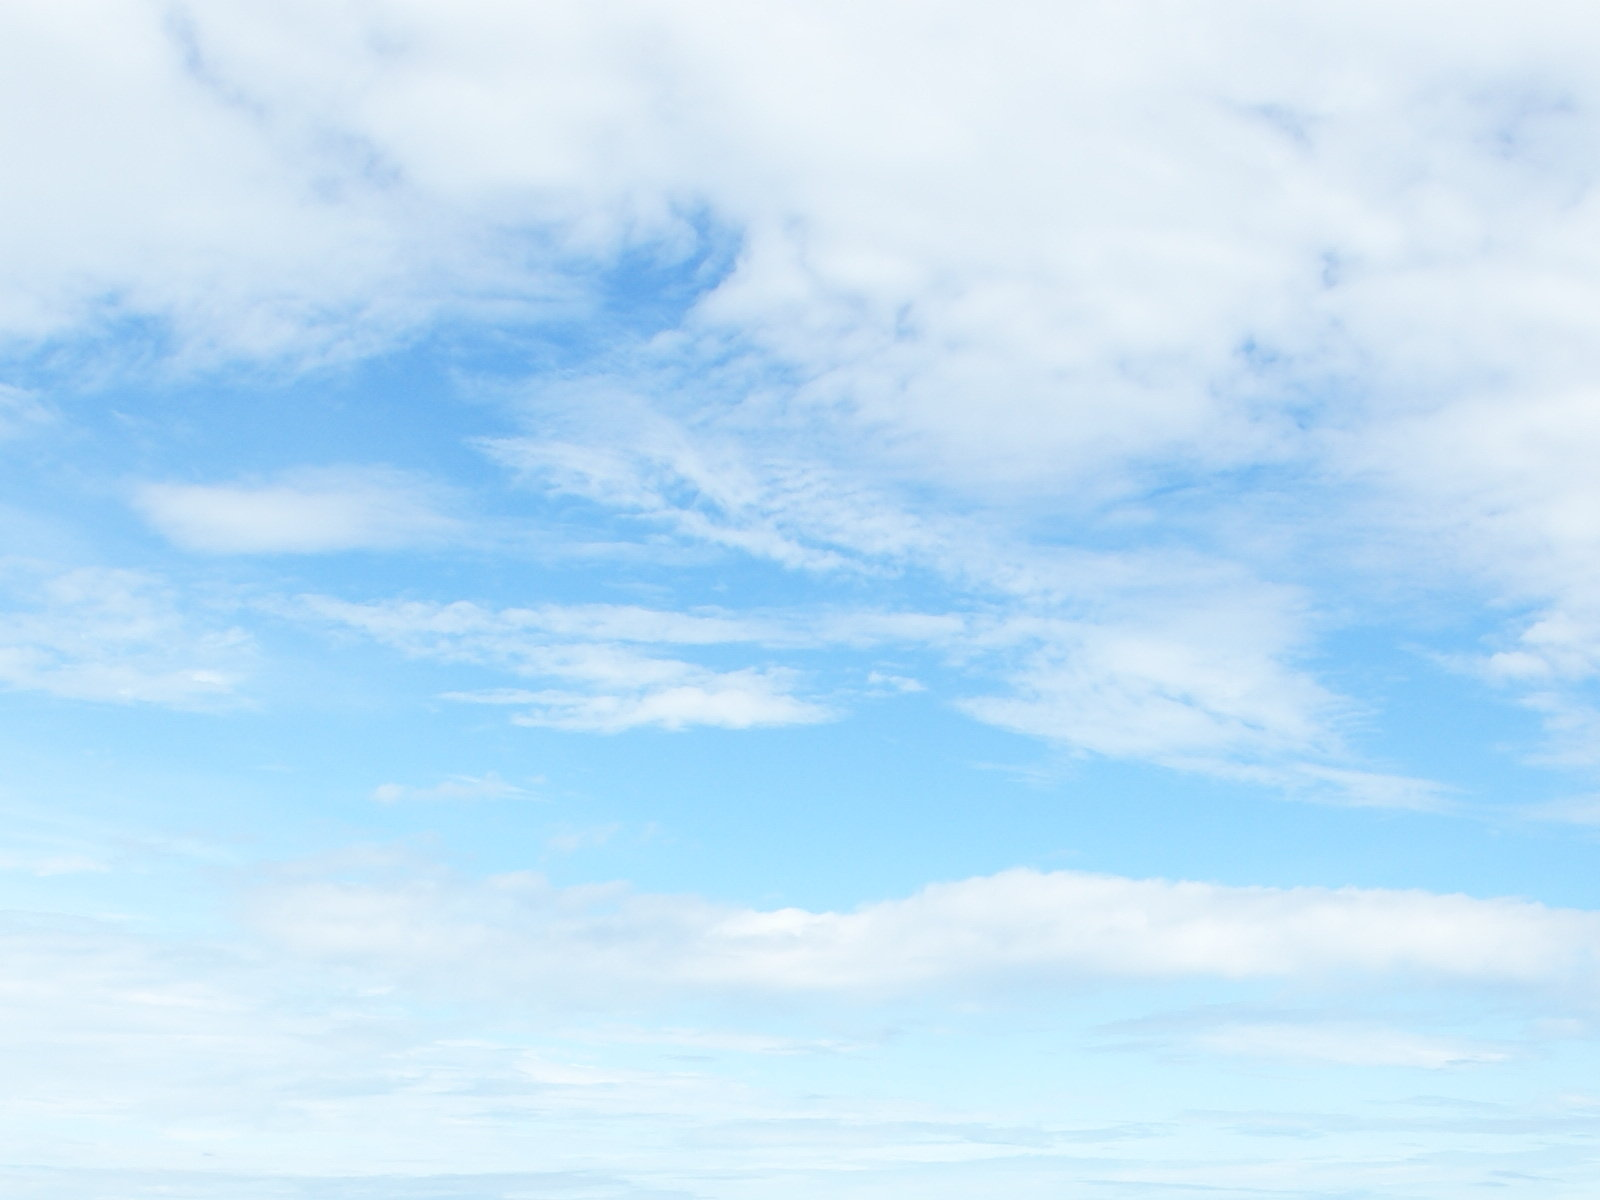
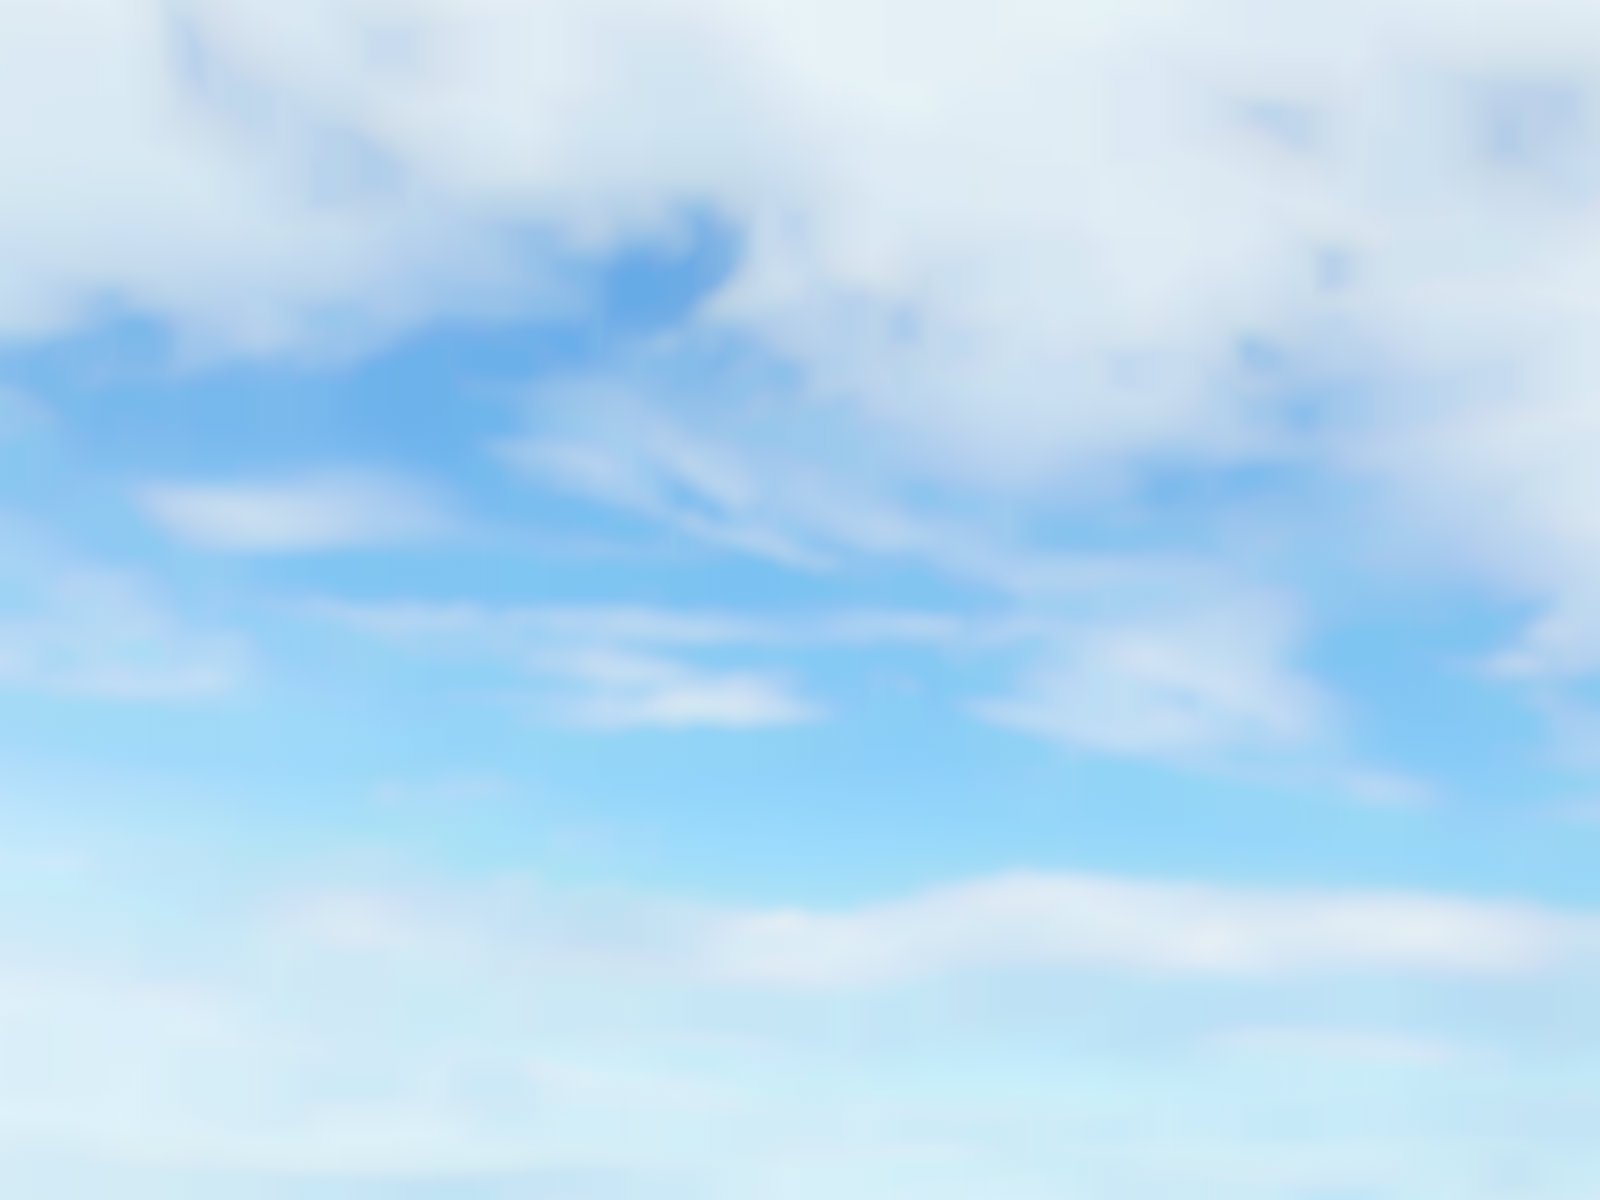
Made Background Blurred

diff --git a/index.html b/index.html
@@ -49,7 +49,7 @@ $(document).ready(function() {
 <header id="header">
 <div class="content">
 
-<div id="logo"><img src = "img/logo1.tiff"</div>
+<div id="logo"><img src = "img/logo1.png"</div>
 
 
 <nav id="nav">
